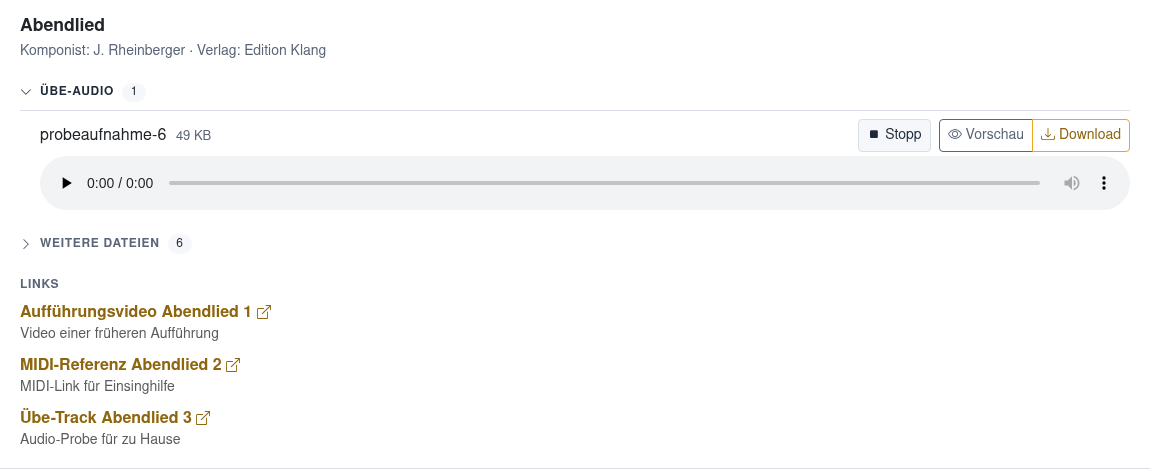
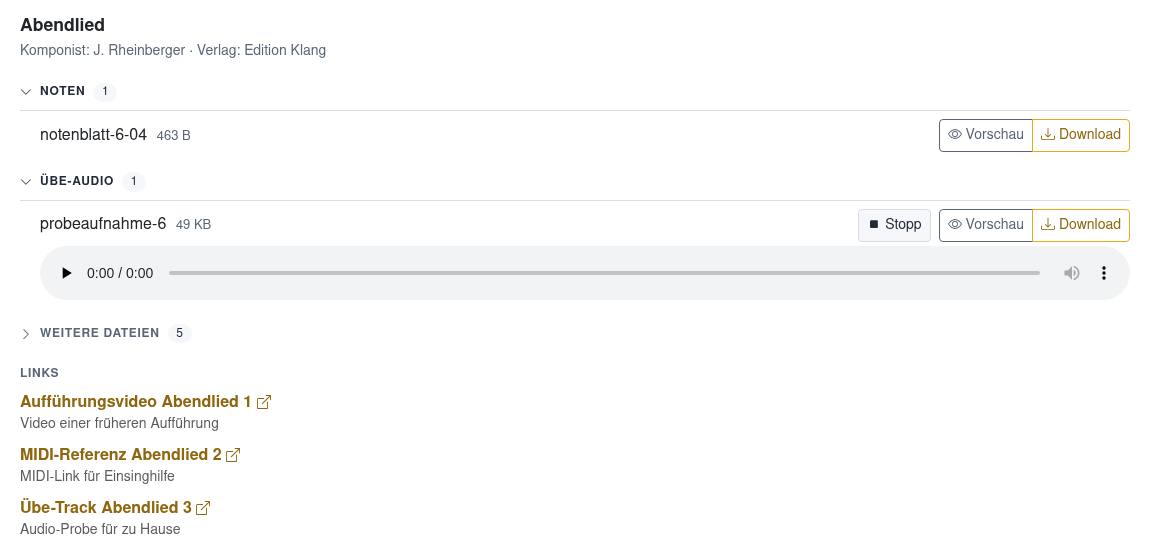
fix(seed): jedes Lied bekommt PDF-Noten, nicht nur zwei von acht
Der Seed vergibt die vier Anhangtypen (PDF, Bild, Text, Word) reihum.
Die Rotation lief über die laufende Nummer aller Anhänge, das Lied aber
ebenfalls über diese Nummer modulo Liedzahl. Bei 8 Liedern - durch 4
teilbar - bekam damit jedes Lied in jeder Runde denselben Typ: Abendlied
sechsmal PNG, Shenandoah sechsmal DOCX, nur zwei Lieder hatten ein PDF.
Sichtbar wurde es beim Nachziehen der Hilfe: Das Probenmaterial zeigte im
laufenden Projekt nie die Gruppe "Noten", die der Hilfetext beschreibt.
Die Rotationstests prüften nur forSlot() für sich, nicht die Kombination
mit der Liedverteilung.

DevSeedAttachmentFixtures::forSong() rotiert jetzt über Lied und Platz
zusammen. Jedes Lied durchläuft über vier Plätze alle vier Typen, und die
erste Runde mischt die Typen weiterhin über die Lieder - die frühere
Absicht (in Dev sind Anhänge mit und ohne Vorschau zu sehen) bleibt.
Verworfen: die Rotation allein über den Platz. Dann hätte in der ersten
Runde jedes Lied ein PDF und bei wenigen Anhängen gäbe es keinen Anhang
ohne Vorschau - genau der Fall, vor dem der alte Kommentar warnte.

Neu in tests/Unit/Services/DevSeedAttachmentFixturesTest:
- testEverySongGetsAllFourTypesOverFourSlots über 3, 4, 8, 11 und 12
  Lieder (DataProvider), 8 entspricht dem Seed
- testFirstRoundAcrossFourSongsMixesAllTypes

Die Repertoire-Hilfebilder sind nach dem neuen Seed neu aufgenommen;
08-downloads zeigt jetzt die Gruppe "Noten".

Seed: reset-and-seed (years=3, status=ok, BACKUP_DIR umgelenkt,
[…]

diff --git a/tests/Unit/Services/DevSeedAttachmentFixturesTest.php b/tests/Unit/Services/DevSeedAttachmentFixturesTest.php
@@ -6,6 +6,7 @@ namespace Tests\Unit\Services;
 
 use App\Services\DevSeedAttachmentFixtures;
 use App\Util\AttachmentPreview;
+use PHPUnit\Framework\Attributes\DataProvider;
 use PHPUnit\Framework\TestCase;
 
 /**
@@ -201,5 +202,58 @@ final class DevSeedAttachmentFixturesTest extends TestCase
             DevSeedAttachmentFixtures::forSlot(1, 'Probe')['mime_type'],
             DevSeedAttachmentFixtures::forSlot(5, 'Probe')['mime_type']
         );
+    }
+
+    /**
+     * Jedes Lied mit vier Anhängen bekommt alle vier Typen - auch ein PDF -,
+     * gleich wie viele Lieder es gibt. Vorher lief der Typ über die laufende
+     * Nummer aller Anhänge; bei 8 Liedern (ein Vielfaches von 4) bekam jedes
+     * Lied in jeder Runde denselben Typ, das Probenmaterial zeigte im
+     * laufenden Projekt nie die Gruppe "Noten".
+     *
+     * @return array<string, array{int}>
+     */
+    public static function songCounts(): array
+    {
+        return [
+            'drei Lieder' => [3],
+            'vier Lieder' => [4],
+            'acht Lieder wie im Seed' => [8],
+            'elf Lieder' => [11],
+            'zwölf Lieder' => [12],
+        ];
+    }
+
+    #[DataProvider('songCounts')]
+    public function testEverySongGetsAllFourTypesOverFourSlots(int $songCount): void
+    {
+        for ($songIndex = 0; $songIndex < $songCount; $songIndex++) {
+            $types = [];
+            for ($slot = 1; $slot <= 4; $slot++) {
+                $types[] = DevSeedAttachmentFixtures::forSong($songIndex, $slot, 'Probe')['mime_type'];
+            }
+            sort($types);
+
+            $this->assertSame([
+                'application/pdf',
+                'application/vnd.openxmlformats-officedocument.wordprocessingml.document',
+                'image/png',
+                'text/plain',
+            ], $types, 'Lied ' . $songIndex . ' von ' . $songCount);
+        }
+    }
+
+    /**
+     * Schon die erste Runde - ein Anhang je Lied - mischt die Typen, damit auch
+     * ein Seed mit wenigen Anhängen beide Zustände der Vorschau zeigt.
+     */
+    public function testFirstRoundAcrossFourSongsMixesAllTypes(): void
+    {
+        $types = [];
+        for ($songIndex = 0; $songIndex < 4; $songIndex++) {
+            $types[] = DevSeedAttachmentFixtures::forSong($songIndex, 1, 'Probe')['mime_type'];
+        }
+
+        $this->assertCount(4, array_unique($types));
     }
 }

diff --git a/src/Services/DevSeedService.php b/src/Services/DevSeedService.php
@@ -4444,24 +4444,26 @@ class DevSeedService
         $maxAttempts = ($targetCount * 5) + count($songs);
 
         while ($created < $targetCount && $attempt < $maxAttempts) {
-            $song = $songs[$attempt % count($songs)];
+            $songIndex = $attempt % count($songs);
+            $song = $songs[$songIndex];
             $slot = (int) floor($attempt / count($songs)) + 1;
 
             // Vier Typen reihum: PDF, Bild und Text sind im Vorschau-Modal
             // darstellbar, das Word-Dokument bewusst nicht. So ist in Dev
             // sofort beides zu sehen - mit Vorschau-Knopf und ohne.
-            // Die Rotation läuft über $attempt, nicht über $slot: $slot steigt
-            // erst, wenn jedes Lied einen Anhang hat, und erreicht bei vielen
-            // Liedern nie den vierten Zweig - dann fänden sich in den Testdaten
-            // ausschließlich darstellbare Anhänge.
+            // Die Rotation läuft über Lied und Platz zusammen (forSong()):
+            // Über die laufende Nummer allein bekam bei 8 Liedern jedes Lied
+            // in jeder Runde denselben Typ, und keines im laufenden Projekt
+            // hatte ein PDF für die Gruppe "Noten" auf dem Probenmaterial.
             //
             // Die vier Anhang-Stellen legen mit updateOrCreate an, nicht mit
             // firstOrCreate. Der Schlüssel ist der Dateiname, und der bleibt
             // gleich: eine bestehende Zeile aus einem früheren Lauf behielte
             // sonst für immer ihren alten Inhalt - also genau die Textdatei mit
             // PDF-Etikett, deretwegen die Vorschau in Dev leer blieb.
-            $fixture = DevSeedAttachmentFixtures::forSlot(
-                $attempt + 1,
+            $fixture = DevSeedAttachmentFixtures::forSong(
+                $songIndex,
+                $slot,
                 'Notenblatt Song ' . $song->id . ' (Version ' . $slot . ')'
             );
             $originalName = sprintf('notenblatt-%d-%02d.%s', $song->id, $slot, $fixture['extension']);

diff --git a/src/Services/DevSeedAttachmentFixtures.php b/src/Services/DevSeedAttachmentFixtures.php
@@ -249,4 +249,22 @@ final class DevSeedAttachmentFixtures
             default => self::wordDocument($caption),
         };
     }
+
+    /**
+     * Der Typ für den n-ten Anhang eines Lieds. Die Rotation läuft über Lied
+     * und Platz zusammen: Innerhalb einer Runde wechselt der Typ von Lied zu
+     * Lied, und jedes Lied durchläuft über vier Plätze alle vier Typen - also
+     * auch ein PDF für die Gruppe "Noten" auf dem Probenmaterial.
+     *
+     * Eine Rotation über die laufende Nummer aller Anhänge wäre bei einer
+     * Liedzahl, die durch 4 teilbar ist, für jedes Lied immer derselbe Typ.
+     *
+     * @param int $songIndex Position des Lieds, ab 0
+     * @param int $slot      Nummer des Anhangs am Lied, ab 1
+     * @return array{mime_type: string, extension: string, content: string}
+     */
+    public static function forSong(int $songIndex, int $slot, string $caption): array
+    {
+        return self::forSlot($songIndex + $slot, $caption);
+    }
 }
